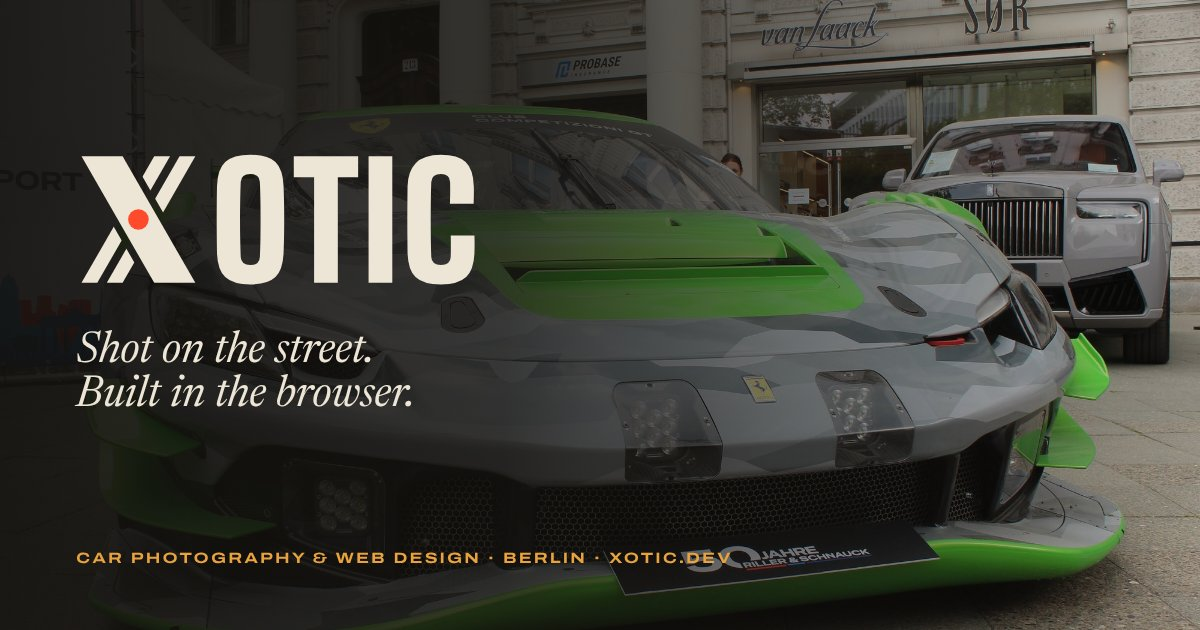
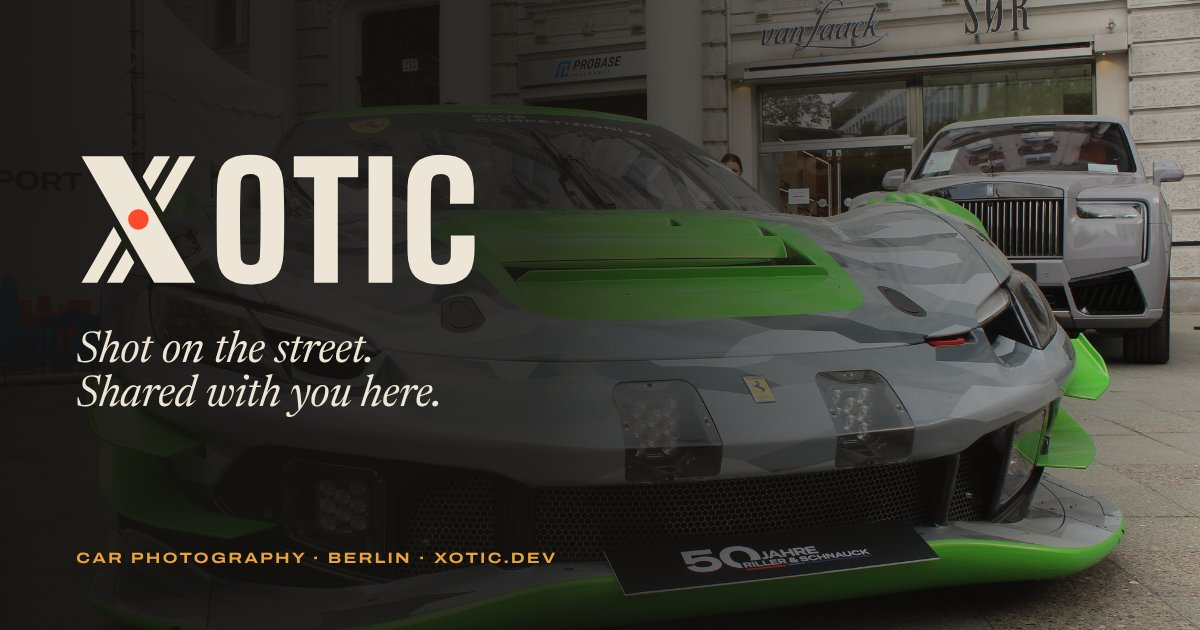
Reposition: photography as passion project, cybersecurity day job
- Headline: 'Shot on the street. Shared with you here.' (old line kept in
  the alternatives comment); link-preview image regenerated to match
- Intro: opens with the day job (junior PKI consultant, cybersecurity);
  photography framed as the passion project; links to the Solana
  prototype and Hayu; 'now' list gains 'Working'
- Removed the caption describing the logo
- Hero copy, page title/description, ticker and 'On the side' section
  updated to match
- About: rewritten around photography + cybersecurity day job
- CV: Junior PKI Consultant (2026 - now) added; photography listed as a
  passion project instead of self-employed; employer intentionally not named

Claude-Session: https://claude.ai/code/session_019A3PUMimEtM7fF7Pu2DyrP

Changed region(s): [[0.0617, 0.573, 0.37, 0.6635], [0.2467, 0.8746, 0.6167, 0.9048]]

diff --git a/index.html b/index.html
@@ -3,14 +3,14 @@
 <head>
 <meta charset="UTF-8">
 <meta name="viewport" content="width=device-width, initial-scale=1.0">
-<title>XOTIC — Car Photography &amp; Web Design</title>
-<meta name="description" content="XOTIC is the Berlin studio of Mehmet X: car photography, hand-built websites, and a few blockchain experiments on the side.">
+<title>XOTIC — Car photography by Mehmet X</title>
+<meta name="description" content="XOTIC is the car photography of Mehmet X from Berlin, plus the side projects of someone who works in cybersecurity by day.">
 <link rel="canonical" href="https://xotic.dev/">
 <meta name="theme-color" content="#E9E3D5">
 <meta property="og:type" content="website">
 <meta property="og:site_name" content="XOTIC">
-<meta property="og:title" content="XOTIC — Car Photography &amp; Web Design">
-<meta property="og:description" content="Shot on the street. Built in the browser. Car photography and web design from Berlin.">
+<meta property="og:title" content="XOTIC — Car photography by Mehmet X">
+<meta property="og:description" content="Shot on the street. Shared with you here. Car photography from Berlin.">
 <meta property="og:url" content="https://xotic.dev/">
 <meta property="og:image" content="https://xotic.dev/images/og.jpg">
 <meta name="twitter:card" content="summary_large_image">
@@ -51,27 +51,27 @@
 <!-- HERO: the page "develops" on load -->
 <!--
   Headline alternatives (swap the two .line spans to try one):
-    "Shot on the street. Built in the browser."   <- current
-    "Fast cars. Clean code."
-    "I shoot what moves and build what loads."
-    "Chrome on the kerb. Code on the screen."
+    "Shot on the street. Shared with you here."   <- current
+    "Shot on the street. Built in the browser."
+    "Found on the street. Framed here."
+    "Shot on the street. Kept here for you."
     "Every frame is a layout."
 -->
 <header class="hero">
   <div class="container">
     <div class="hero-meta hero-in" style="--i:0">
-      <p class="eyebrow">Car photography &amp; web design</p>
+      <p class="eyebrow">Car photography by Mehmet X</p>
       <p class="mono-caption">Sheet 001 · Berlin · 52.50°N</p>
     </div>
 
-    <h1 class="hero-title" aria-label="Shot on the street. Built in the browser.">
+    <h1 class="hero-title" aria-label="Shot on the street. Shared with you here.">
       <span class="line line-u"><span class="word" style="--i:1">Shot on</span> <span class="word u-wrap" style="--i:2">the street.<svg class="pencil-underline" viewBox="0 0 600 40" preserveAspectRatio="none" aria-hidden="true"><path pathLength="1" d="M6 26 C 120 12, 260 30, 380 18 S 560 14, 594 22"/></svg></span></span>
-      <span class="line"><span class="word" style="--i:3"><em>built in</em></span> <span class="word" style="--i:4">the browser.</span></span>
+      <span class="line"><span class="word" style="--i:3"><em>shared with you</em></span> <span class="word" style="--i:4">here.</span></span>
     </h1>
 
     <div class="hero-lower">
       <div class="hero-copy">
-        <p class="hero-sub hero-in" style="--i:6">Car photography and hand-built websites from Berlin. One person behind both: <strong>Mehmet&nbsp;X</strong>.</p>
+        <p class="hero-sub hero-in" style="--i:6">Car meets, classics and the details people walk past, in Berlin. A passion project next to my day job in cybersecurity.</p>
         <div class="hero-actions hero-in" style="--i:7">
           <a href="#work" class="btn btn-solid">View the frames</a>
           <a href="work.html" class="btn">See the builds</a>
@@ -97,8 +97,8 @@
 <!-- TICKER -->
 <div class="ticker" aria-hidden="true">
   <div class="ticker-track">
-    <span>Photography</span><span class="o">Web Design</span><span>Berlin</span><span class="o">Car Culture</span><span>Solana</span><span class="o">Cloudflare</span><span>Street Meets</span><span class="o">Unity</span>
-    <span>Photography</span><span class="o">Web Design</span><span>Berlin</span><span class="o">Car Culture</span><span>Solana</span><span class="o">Cloudflare</span><span>Street Meets</span><span class="o">Unity</span>
+    <span>Photography</span><span class="o">Car Culture</span><span>Berlin</span><span class="o">Cybersecurity</span><span>Street Meets</span><span class="o">PKI</span><span>Web Design</span><span class="o">Unity</span>
+    <span>Photography</span><span class="o">Car Culture</span><span>Berlin</span><span class="o">Cybersecurity</span><span>Street Meets</span><span class="o">PKI</span><span>Web Design</span><span class="o">Unity</span>
   </div>
 </div>
 
@@ -113,18 +113,18 @@
         <polygon class="mk-a" points="14,10 40,10 86,90 60,90"/>
         <circle class="mk-dot" cx="50" cy="50" r="6.5"/>
       </svg>
-      <figcaption class="mono-caption">The X: a solid stroke, a double racing stripe, a focus point in the middle and the viewfinder around it.</figcaption>
     </figure>
 
     <div class="intro-text">
       <p class="eyebrow reveal">Hello</p>
-      <p class="intro-lede reveal">I'm Mehmet X. <em>XOTIC</em> is my one-person studio in Berlin, for car photography and websites built by hand.</p>
+      <p class="intro-lede reveal">I'm Mehmet X. By day I work in cybersecurity. <em>XOTIC</em> is my passion project: car photography from Berlin.</p>
       <p class="reveal">Most of my photos are taken where cars gather: meets, classic car days, the kerb outside a showroom on a Saturday afternoon. I'm rarely after the whole car. I look for the part people walk past, like a badge, a wing or a line of light along a door.</p>
-      <p class="reveal">The rest of the time I build websites. They're small, fast and written by hand, with no page builder underneath. The habits are the same as with the camera: crop hard, keep what matters, and make it load before anyone gets bored.</p>
+      <p class="reveal">My day job is a different kind of detail work. As a junior PKI consultant I help businesses with certificates, keys and the systems that decide what can be trusted online. Some of that curiosity spills into side projects, like a <a href="work.html#solana">credential revocation prototype on Solana</a>.</p>
+      <p class="reveal">And sometimes I just build things: this website, a few others, and <a href="hayu.html">a small game called Hayu</a> that you can play right here.</p>
       <dl class="now reveal">
         <div><dt class="mono-caption">Shooting</dt><dd>Berlin car meets &amp; classics</dd></div>
-        <div><dt class="mono-caption">Building</dt><dd>Fast static sites on Cloudflare</dd></div>
-        <div><dt class="mono-caption">Tinkering</dt><dd>Credential revocation on Solana</dd></div>
+        <div><dt class="mono-caption">Working</dt><dd>Junior PKI consultant, since 2026</dd></div>
+        <div><dt class="mono-caption">Building</dt><dd>This site, and Hayu, a small game</dd></div>
         <div><dt class="mono-caption">Carrying</dt><dd>Canon EOS 4000D, 18–55mm</dd></div>
       </dl>
     </div>
@@ -202,9 +202,9 @@
 <section class="practice">
   <div class="container practice-grid">
     <div class="practice-text reveal">
-      <p class="eyebrow">The Other Half</p>
+      <p class="eyebrow">On the side</p>
       <h2>I also build the sites that <em>hold</em> work like this.</h2>
-      <p>One person designing and building fast, clean, custom websites for photographers, founders and small businesses who don't want a template.</p>
+      <p>Next to photography, I design and build fast, clean websites for photographers, founders and small businesses who don't want a template.</p>
       <a href="about.html" class="btn">More about the practice →</a>
     </div>
 

diff --git a/about.html b/about.html
@@ -4,13 +4,13 @@
 <meta charset="UTF-8">
 <meta name="viewport" content="width=device-width, initial-scale=1.0">
 <title>About — XOTIC</title>
-<meta name="description" content="About Mehmet X and XOTIC: car photography and hand-built websites from Berlin.">
+<meta name="description" content="About Mehmet X: car photography from Berlin, a day job in cybersecurity, and a few side projects.">
 <link rel="canonical" href="https://xotic.dev/about">
 <meta name="theme-color" content="#E9E3D5">
 <meta property="og:type" content="website">
 <meta property="og:site_name" content="XOTIC">
 <meta property="og:title" content="About — XOTIC">
-<meta property="og:description" content="About Mehmet X and XOTIC: car photography and hand-built websites from Berlin.">
+<meta property="og:description" content="About Mehmet X: car photography from Berlin, a day job in cybersecurity, and a few side projects.">
 <meta property="og:url" content="https://xotic.dev/about">
 <meta property="og:image" content="https://xotic.dev/images/og.jpg">
 <meta name="twitter:card" content="summary_large_image">
@@ -62,10 +62,10 @@
       <figcaption class="mono-caption">Frame 001 · Endurance livery · Berlin</figcaption>
     </figure>
     <div class="bio-text reveal">
-      <p>I'm Mehmet X, and XOTIC is the name I work under. I started with a camera at car meets and classic car days around Berlin, learning to find the frame inside a busy scene: what to include, what to cut, where the eye should land first.</p>
-      <p>Building websites turned out to be the same exercise, with type and grids instead of light and glass. Every layout is a composition, and every page has a frame.</p>
-      <p>Now I split my time between the two. I shoot cars and events, and I design and build websites for people who'd rather not look like everyone else's template.</p>
-      <p>On the side I've been getting into systems and security, including PKI and an <a class="inline-link" href="work.html#solana">on-chain credential revocation prototype on Solana</a>. The full list is on my <a class="inline-link" href="cv.html">CV</a>, and more photos are on <a class="inline-link" href="https://www.instagram.com/xotic_studios/" target="_blank" rel="noopener">Instagram</a>.</p>
+      <p>I'm Mehmet X, and XOTIC is the name I put on my photos. Photography is my passion project. I started with a camera at car meets and classic car days around Berlin, learning to find the frame inside a busy scene: what to include, what to cut, where the eye should land first.</p>
+      <p>By day I work in cybersecurity, as a junior PKI consultant. It's a different kind of detail work: certificates, keys, and making sure the right things are trusted. That curiosity led to side projects like an <a class="inline-link" href="work.html#solana">on-chain credential revocation prototype on Solana</a>.</p>
+      <p>Building websites turned out to be the same exercise as photography, with type and grids instead of light and glass. Every layout is a composition, and every page has a frame. I build them for myself and, now and then, for others.</p>
+      <p>The full list is on my <a class="inline-link" href="cv.html">CV</a>, and more photos are on <a class="inline-link" href="https://www.instagram.com/xotic_studios/" target="_blank" rel="noopener">Instagram</a>.</p>
     </div>
   </div>
 </section>

diff --git a/cv.html b/cv.html
@@ -60,7 +60,7 @@
     <div>
       <p class="eyebrow reveal">Curriculum Vitae</p>
       <h1 class="page-title reveal">Mehmet X</h1>
-      <p class="page-lede reveal">Developer working across blockchain, web infrastructure and security, with a photographer's eye for the details.</p>
+      <p class="page-lede reveal">Junior PKI consultant in cybersecurity. On the side: car photography, websites and a small game.</p>
     </div>
     <div class="cv-actions reveal">
       <button type="button" class="btn btn-solid" id="print-cv">Save as PDF</button>
@@ -144,11 +144,19 @@
     <h2 class="cv-label eyebrow">Experience</h2>
     <ol class="timeline">
       <li class="entry">
+        <p class="entry-date mono-caption">2026 — Now</p>
+        <div>
+          <h3>Junior PKI Consultant</h3>
+          <p class="entry-where">Cybersecurity · PKI consultancy</p>
+          <p>Helping businesses with public key infrastructure: certificates, keys and the systems that decide what can be trusted.</p>
+        </div>
+      </li>
+      <li class="entry">
         <p class="entry-date mono-caption">Ongoing</p>
         <div>
-          <h3>Photographer &amp; web designer</h3>
-          <p class="entry-where">XOTIC · Berlin · Self-employed</p>
-          <p>Car photography at meets and events around Berlin, plus custom websites for clients.</p>
+          <h3>Car photographer</h3>
+          <p class="entry-where">XOTIC · Berlin · Passion project</p>
+          <p>Car photography at meets and events around Berlin, shared on this site and on Instagram. I also build websites on the side.</p>
         </div>
       </li>
     </ol>

diff --git a/css/home.css b/css/home.css
@@ -613,3 +613,7 @@
 }
 .teaser-game:hover::after { opacity: 0.32; filter: none; }
 .teaser-more { margin: 1.6rem 0 0; text-align: right; max-width: none; }
+
+/* links inside the intro text */
+.intro-text a { color: var(--text); border-bottom: 1.5px solid var(--accent); transition: color 0.2s; }
+.intro-text a:hover { color: var(--accent); }
